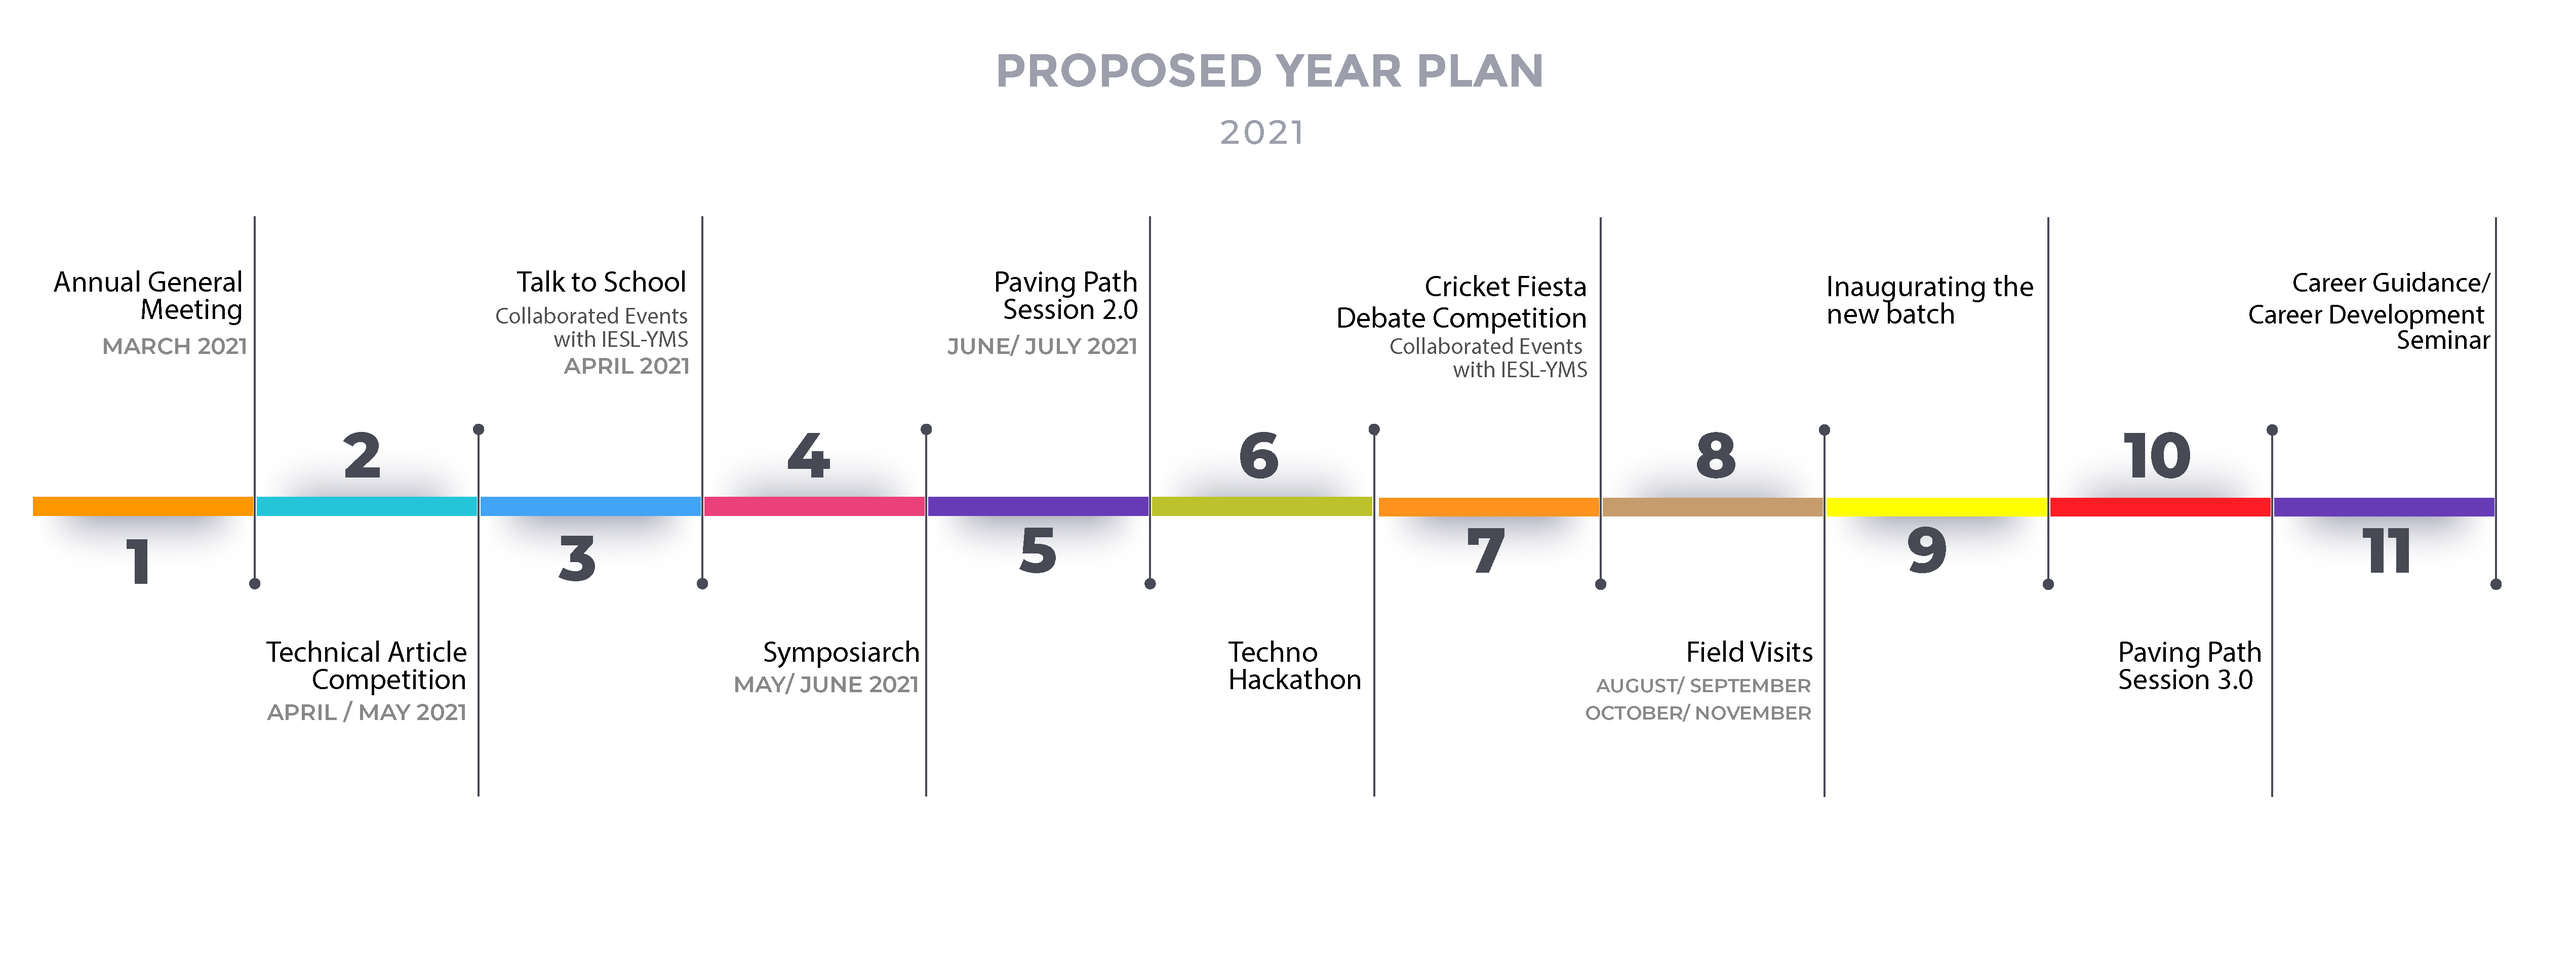
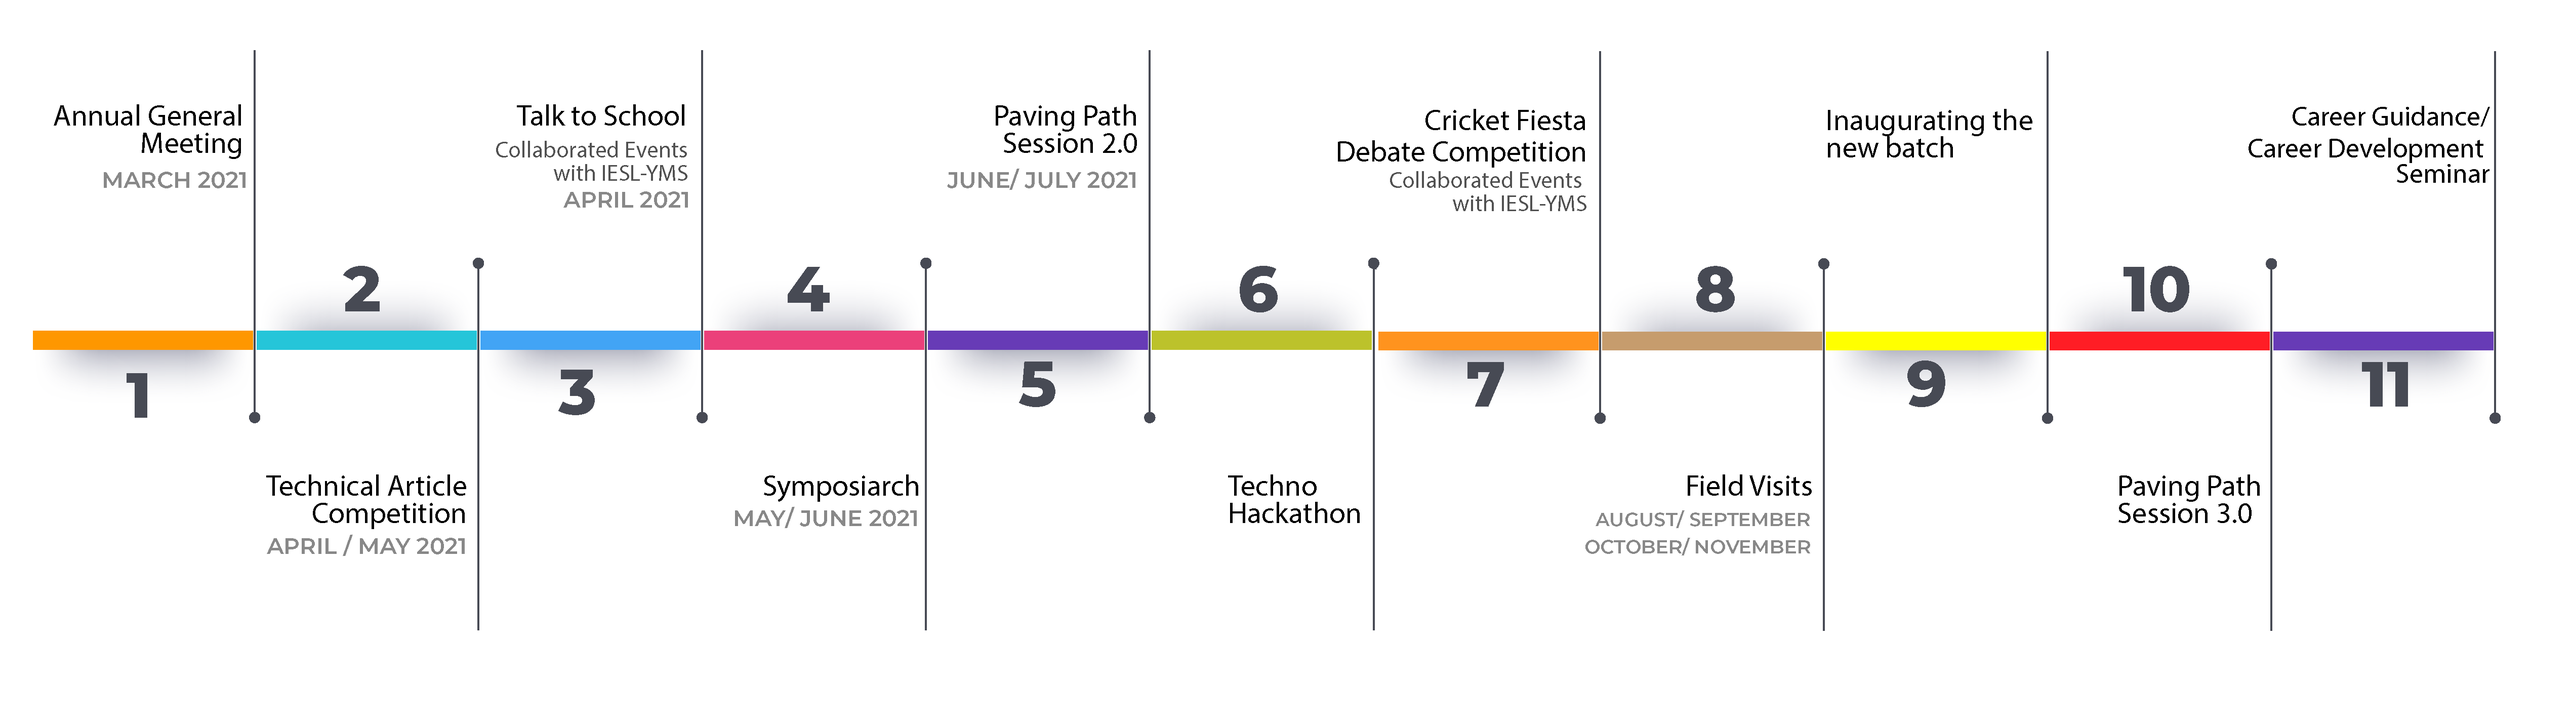
timeline update

diff --git a/iesl-chapter-web-frontend/src/app/pages/projects/projects.component.html b/iesl-chapter-web-frontend/src/app/pages/projects/projects.component.html
@@ -26,9 +26,10 @@
     <div class="container" data-aos="fade-up">
 
       <header class="section-header">
-        <h3>Timeline</h3>
+        <h3>Proposed Year Plan 2021</h3>
         <div class="container"> <!-- todo: need to improve-->
-          <img src="assets/img/timeline.png" class="img-fluid"/>
+          <img src="assets/img/timeline.png" class="img-fluid d-none d-md-block"/>
+          <img src="assets/img/timeline-mobile.jpg" class="img-fluid d-block d-md-none"/>
         </div>
       </header>
 
